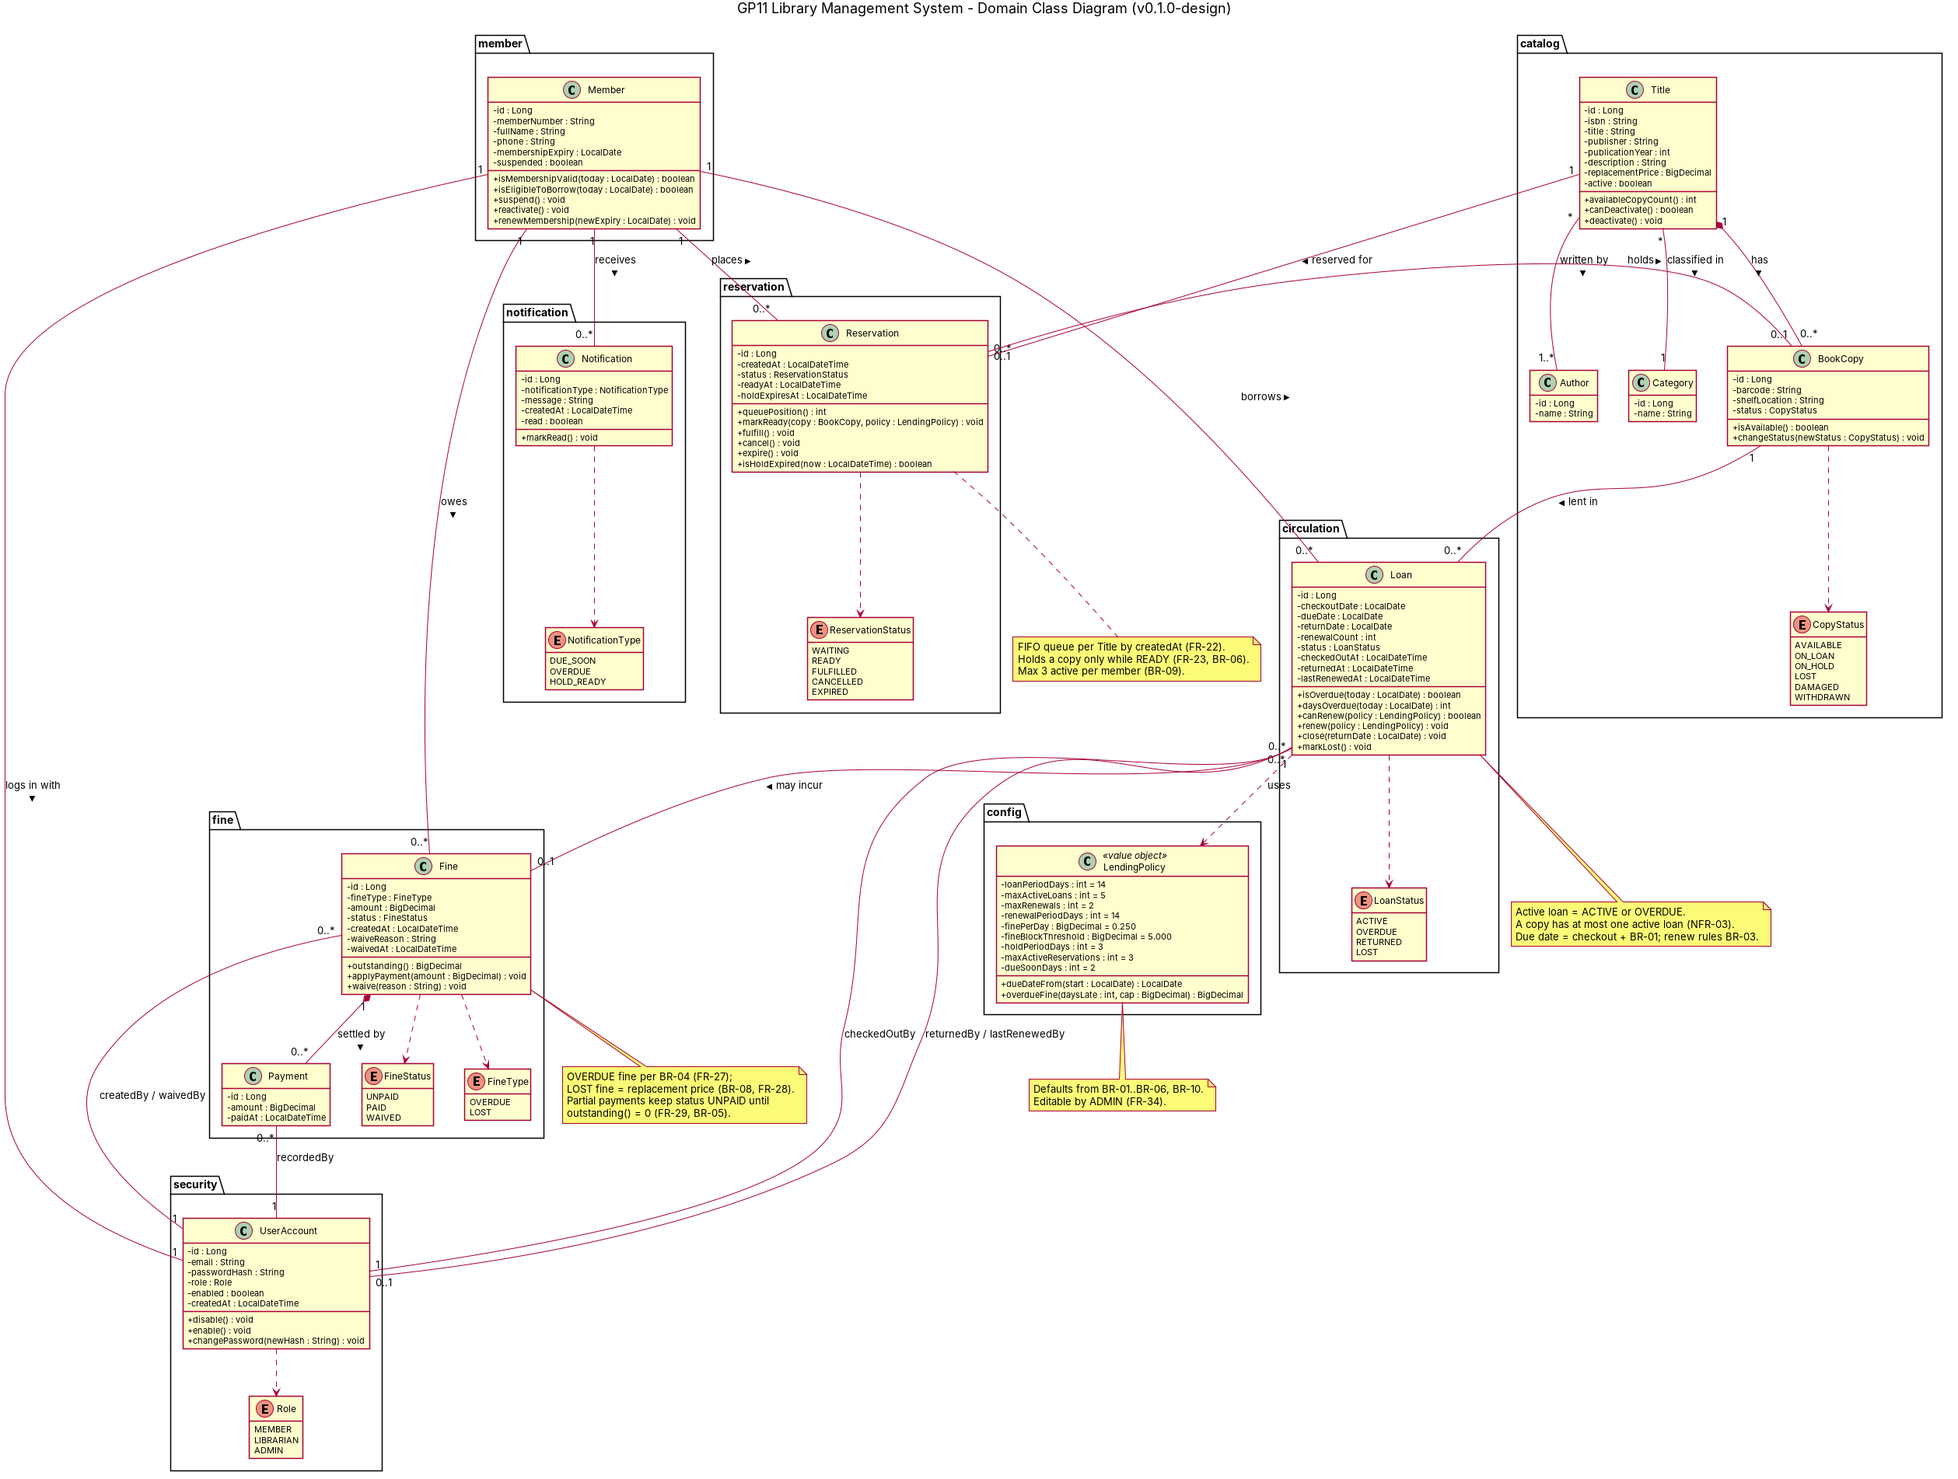
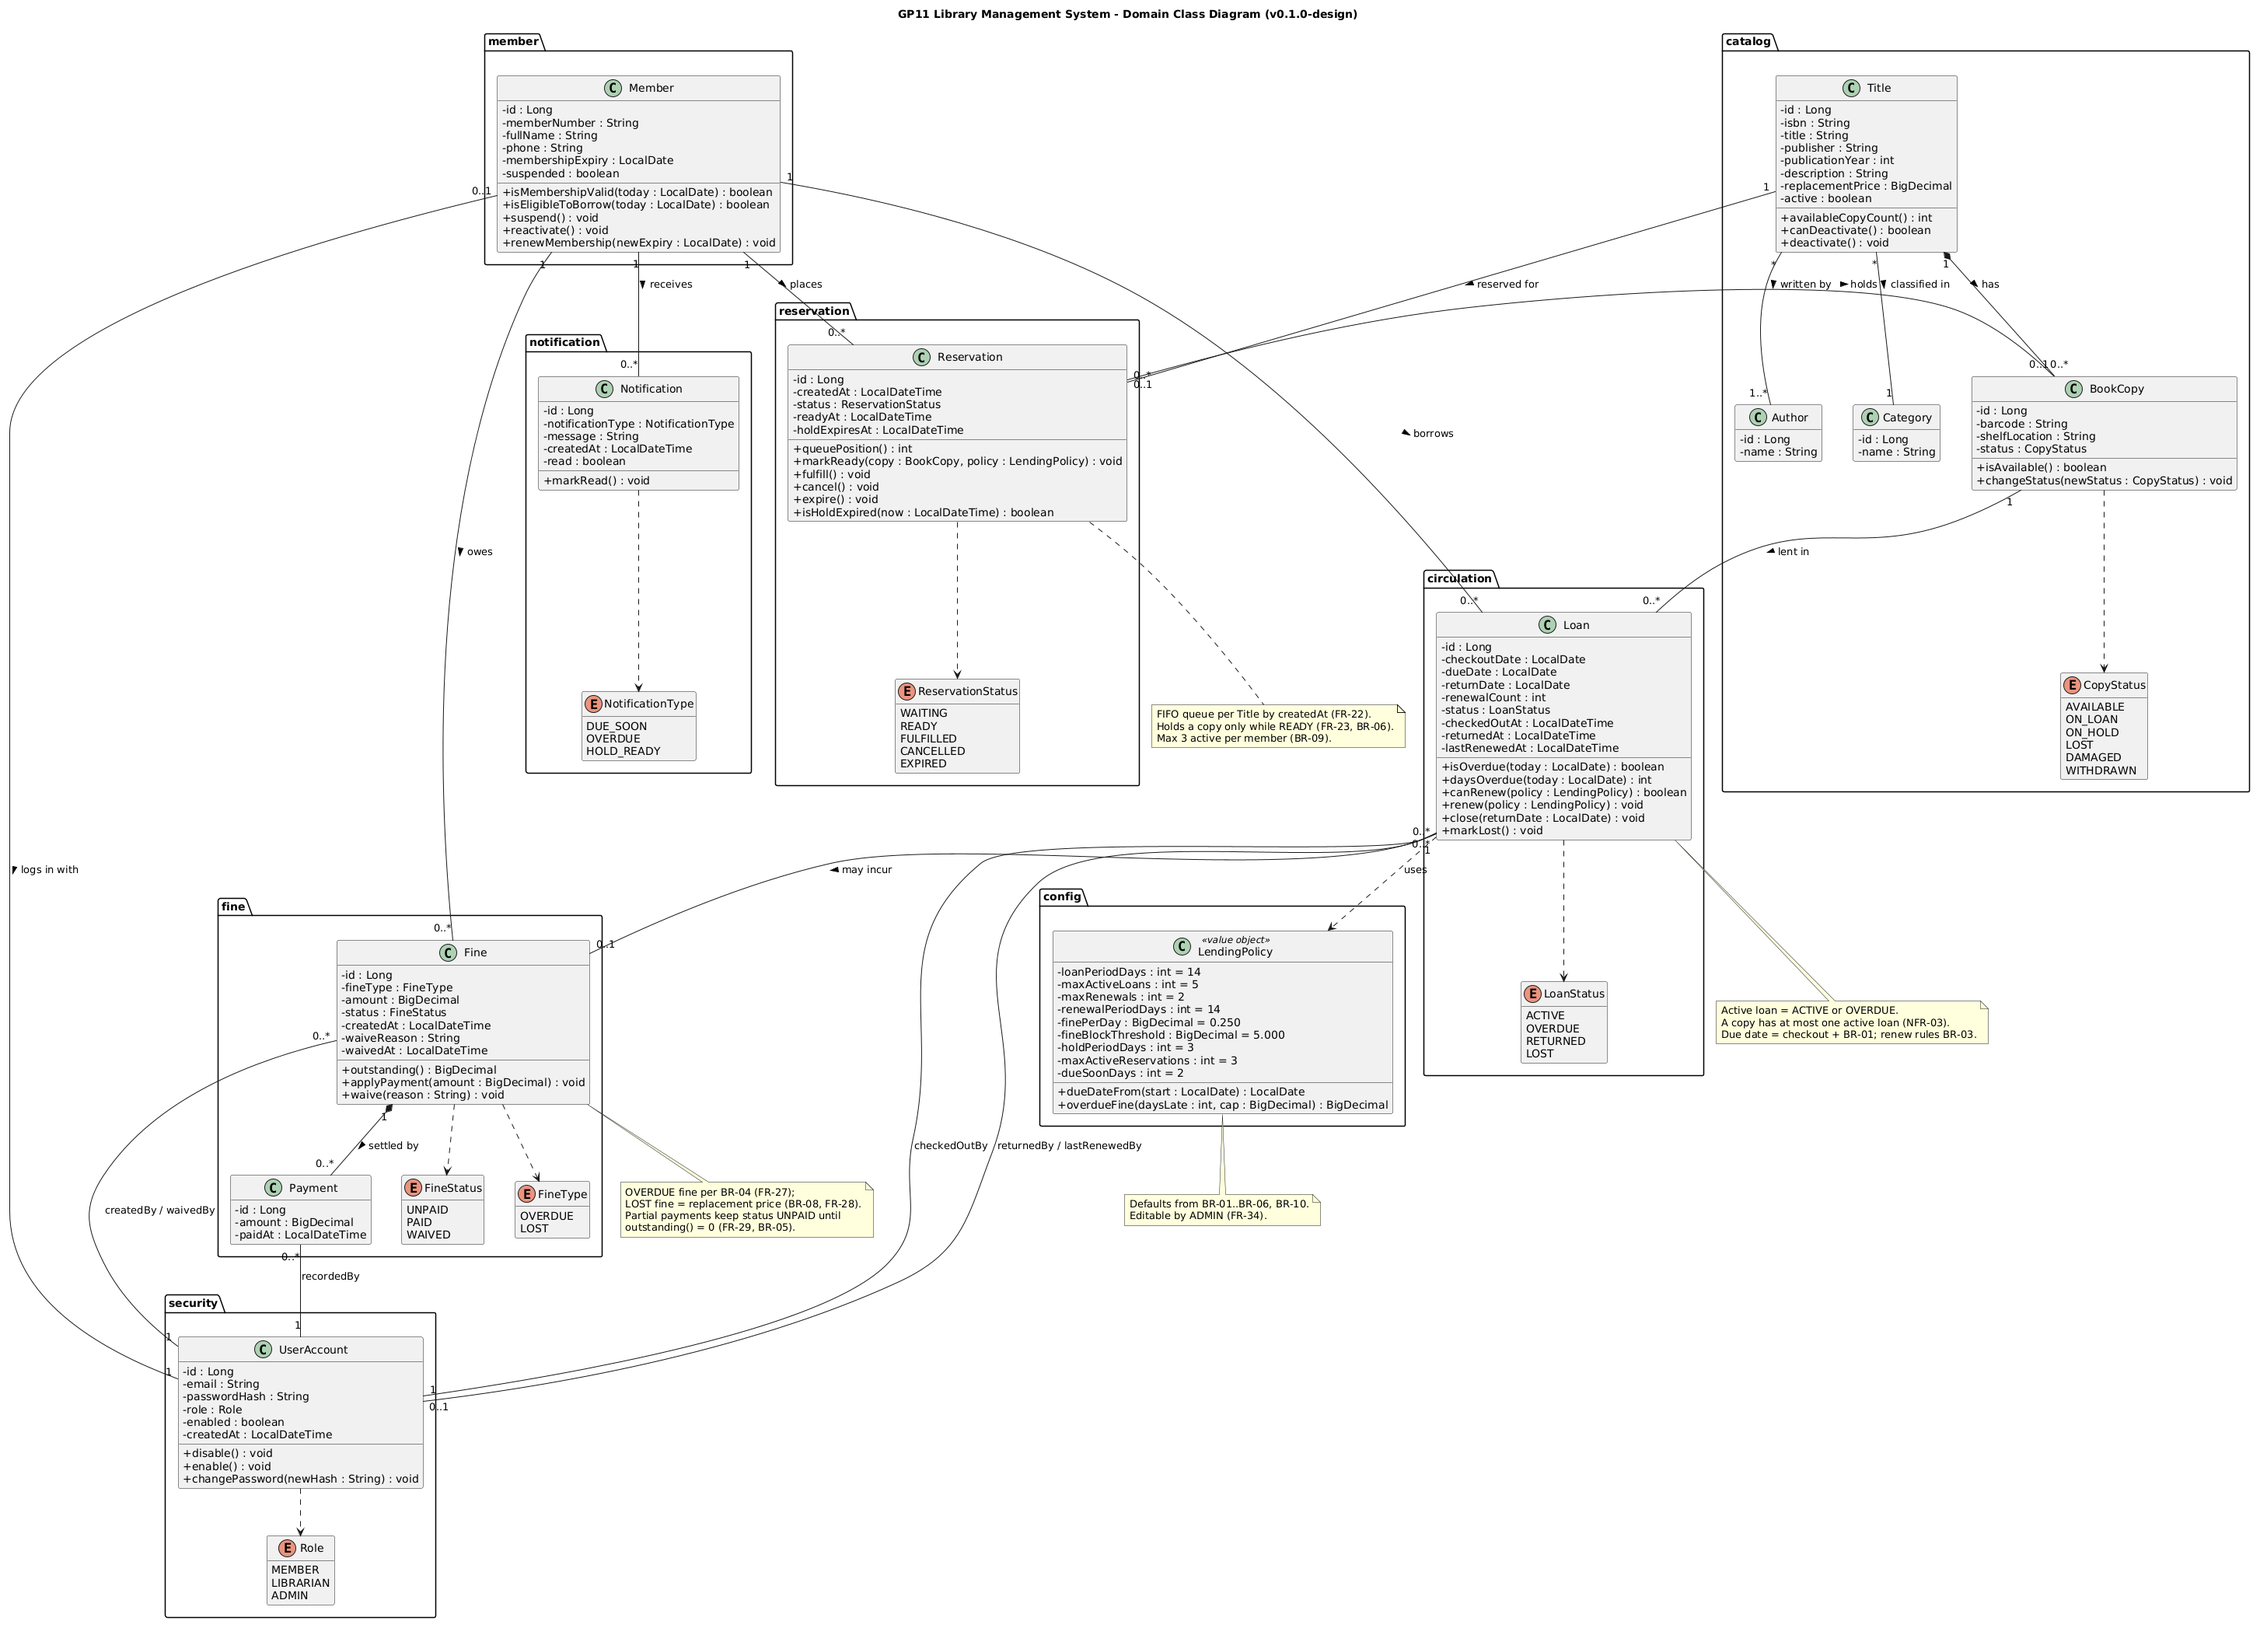
docs: fix Member-UserAccount multiplicity, add PR link and agent list

diff --git a/docs/domain_model.md b/docs/domain_model.md
@@ -39,7 +39,7 @@ additions that the glossary does not define: `FineType` (`OVERDUE`, `LOST`) and 
 | `Title` — `BookCopy` | 1 — 0..* (composition) | A title may have no copies yet (FR-01 before FR-03); a copy cannot exist without its title and is created through it (FR-03). |
 | `Title` — `Author` | * — 1..* | Glossary: a title has one or more authors; an author may write many titles (FR-01). Realised by table `title_author`. |
 | `Title` — `Category` | * — 1 | FR-01 requires exactly one category; many titles share it (FR-05 search by category). |
-| `Member` — `UserAccount` | 1 — 1 | FR-07 creates a `MEMBER` account with every member. Staff accounts (`LIBRARIAN`, `ADMIN`) have no `Member`, so in the database the link is on `member.user_account_id`. |
+| `Member` — `UserAccount` | 0..1 — 1 | FR-07 creates a `MEMBER` account with every member. Staff accounts (`LIBRARIAN`, `ADMIN`) have no `Member`, so in the database the link is on `member.user_account_id`. |
 | `Member` — `Loan` | 1 — 0..* | A member has any number of loans over time; only 5 may be active (BR-02, checked in the service layer). |
 | `BookCopy` — `Loan` | 1 — 0..* | A copy is lent many times over its life, but at most one loan is active at a time (NFR-03, partial unique index). |
 | `Member` — `Reservation` | 1 — 0..* | Reservation history is kept; at most 3 active (BR-09, service layer). |

diff --git a/docs/ai_development_log.md b/docs/ai_development_log.md
@@ -9,4 +9,4 @@ column names the team member who reviewed the agent's output and what they found
 | v0.1.0-design | [prompts/v0.1.0-design-requirements-and-plan.md](../prompts/v0.1.0-design-requirements-and-plan.md) | `docs/project_description.md`, `docs/requirements.md`, `docs/incremental_development_plan.md`, `docs/architecture.md`, `docs/traceability_matrix.md`, `docs/process/v0.1.0-design-tasks.md` | — | TBD (student, PR reviewer) |
 | v0.1.0-design | [prompts/v0.1.0-design-domain-model.md](../prompts/v0.1.0-design-domain-model.md) | `uml/class-domain.puml`, `uml/erd.puml`, `uml/state-book-copy.puml`, `docs/domain_model.md` | — | TBD (student, PR reviewer) |
 
-Coding agent(s) used: Claude Code (Claude Opus 5.5).
+Coding agent(s) used: Claude Code (Claude Opus 5.5, Claude Sonnet 5.5).

diff --git a/prompts/v0.1.0-design-domain-model.md b/prompts/v0.1.0-design-domain-model.md
@@ -5,7 +5,7 @@
 | Version / increment | v0.1.0-design |
 | Type | Design (documentation) |
 | Agent | Claude Code — Claude Sonnet 5.5 |
-| Author (student) | TBD (Task D owner) |
+| Author (Abdalrahman Abu Zahra (20210833)) | TBD (Task D owner) |
 | Branch | `docs/v0.1.0-domain-model` |
 | Date | 2026-11-20 |
 
@@ -44,7 +44,7 @@ explanation of each class and the multiplicities.
 
 ## Results
 
-- PR: _to be added_
+- PR: https://github.com/yazanamarnehh/GP11-Library-Management-System/pull/5
 - Changed modules: documentation and UML only (no code)
 - Tests added: none (design increment)
 - Corrections requested by reviewer: _to be added_
